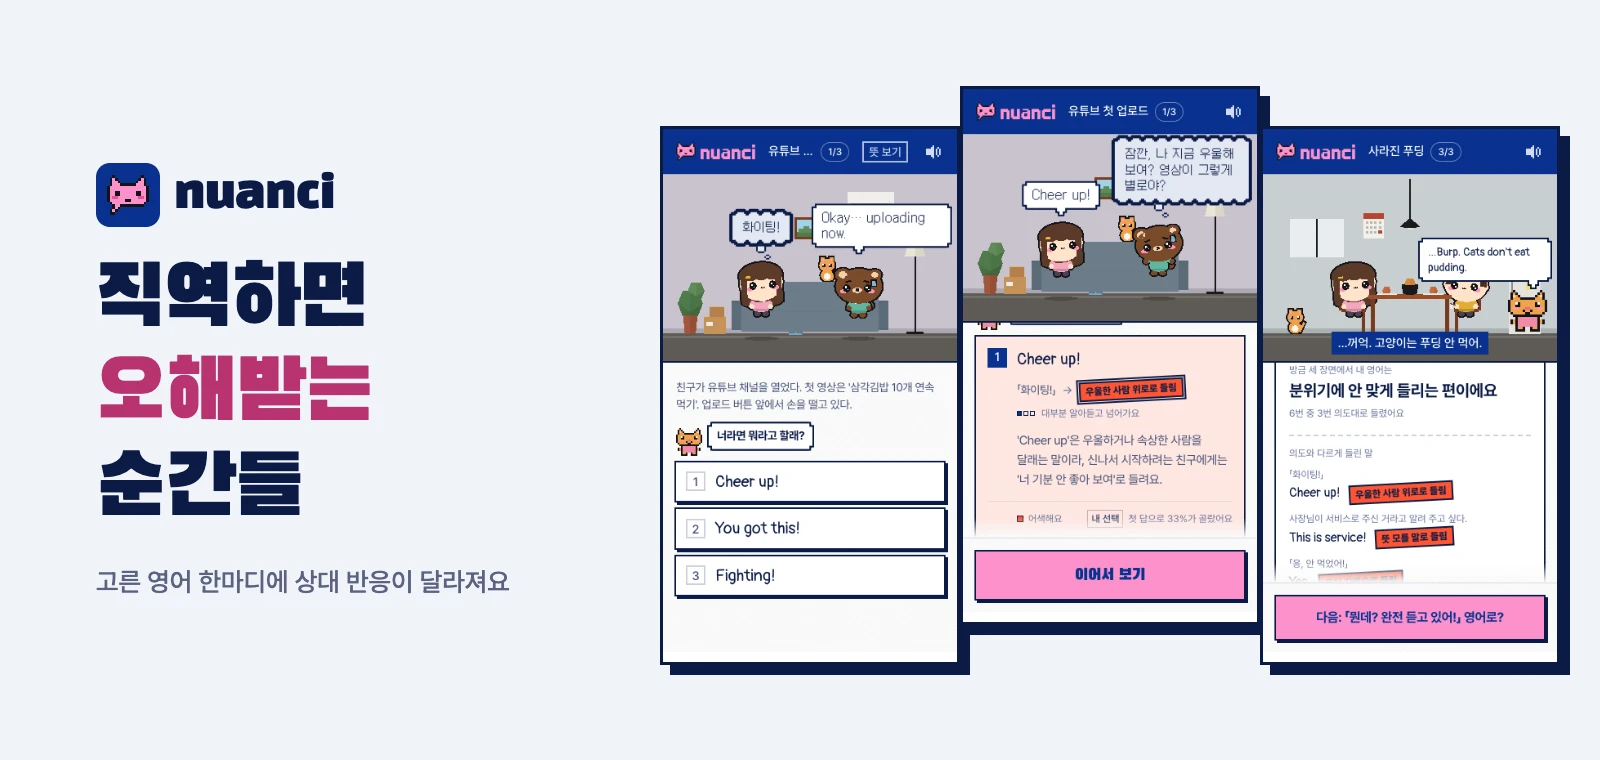
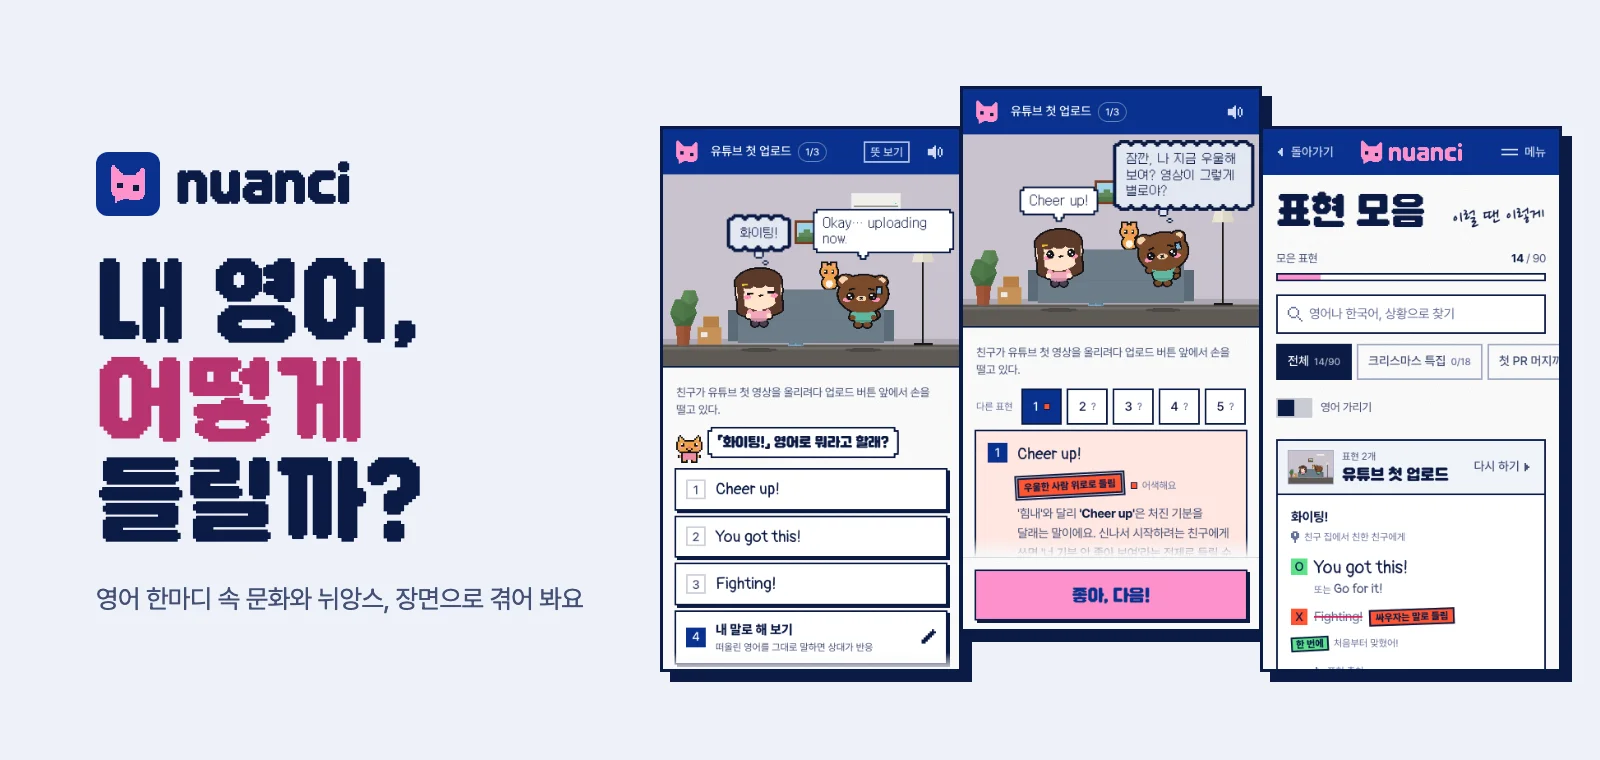
feat: 첫 문장을 '내 영어, 어떻게 들릴까?'로(홈 제목·공유 카드·README 배너). README는 영어 회화 속 문화·뉘앙스가 은은하게 보이게 다듬는다

diff --git a/frontend/src/features/share/card.tsx b/frontend/src/features/share/card.tsx
@@ -135,7 +135,7 @@ export async function render(children: ReactNode, size: { width: number; height:
   );
 }
 
-// 메인 주소를 공유했을 때 보이는 카드. 직역 한 줄이 오해로 이어지는 걸 한 장면으로 보여준다
+// 메인 주소를 공유했을 때 보이는 카드. 내 영어가 상대에게 어떻게 들리는지 보여 주는 곳이라는 걸 한 줄로
 // 카드 그리는 엔진(satori)은 flex: 1 칸의 너비를 글자 줄바꿈에 반영하지 못해서, 칸마다 너비를 정해 둔다
 export function homeCard() {
   return render(
@@ -143,10 +143,10 @@ export function homeCard() {
       <div style={{ display: "flex", flexDirection: "column", justifyContent: "space-between", width: 570 }}>
         <Lockup />
         <div style={{ display: "flex", flexDirection: "column", fontSize: 72, lineHeight: 1.25 }}>
-          <div style={{ display: "flex" }}>직역하면</div>
+          <div style={{ display: "flex" }}>내 영어,</div>
           <div style={{ display: "flex" }}>
-            <Marker>오해받는</Marker>
-            <div style={{ display: "flex", marginLeft: 24 }}>순간들</div>
+            <Marker>어떻게</Marker>
+            <div style={{ display: "flex", marginLeft: 24 }}>들릴까?</div>
           </div>
           <div style={{ display: "flex", marginTop: 20, fontSize: 28, lineHeight: 1.4, color: SUBTLE }}>영어 보기를 고르면 상대 속마음이 보여요</div>
         </div>

diff --git a/frontend/src/app/page.tsx b/frontend/src/app/page.tsx
@@ -65,8 +65,8 @@ export default async function Home() {
       <main className="flex flex-col">
       <div className="relative mx-auto w-full max-w-[1440px] px-4 pb-6 pt-3 md:px-8 min-[960px]:pb-6 returning:max-w-[1080px] returning:pb-0 returning:pt-6 lg:returning:max-w-[1200px]">
         <h1 className="poster-home font-poster text-fg returning:text-say returning:leading-none md:returning:text-display-sm">
-          <span className="poster-rise block min-[960px]:inline-block returning:inline">직역하면</span>{" "}
-          <span className="poster-rise block [animation-delay:90ms] min-[960px]:inline-block returning:inline">오해받는 순간들</span>
+          <span className="poster-rise block min-[960px]:inline-block returning:inline">내 영어,</span>{" "}
+          <span className="poster-rise block [animation-delay:90ms] min-[960px]:inline-block returning:inline">어떻게 들릴까?</span>
         </h1>
         <p aria-hidden className="poster-scrawl absolute right-4 top-3 font-scrawl text-[clamp(32px,6vw,60px)] leading-none text-fg [--lean:-4deg] md:right-8 min-[960px]:hidden returning:hidden">
           골라 보면 알아요

diff --git a/frontend/src/app/opengraph-image.tsx b/frontend/src/app/opengraph-image.tsx
@@ -2,7 +2,7 @@ import { CARD_SIZE, homeCard } from "@/features/share/card";
 
 export const size = CARD_SIZE;
 export const contentType = "image/png";
-export const alt = "nuanci · 직역하면 오해받는 순간들";
+export const alt = "nuanci · 내 영어, 어떻게 들릴까?";
 
 export default function Image() {
   return homeCard();

diff --git a/README.md b/README.md
@@ -1,6 +1,6 @@
 <div align="center">
 
-<img src=".github/readme/banner.webp" alt="nuanci 로고와 '직역하면 오해받는 순간들' 문구, 장면 질문·상대 반응·내 영어 말투 결과 화면" width="100%">
+<img src=".github/readme/banner.webp" alt="nuanci 로고와 '내 영어, 어떻게 들릴까?' 문구, 장면 질문·상대 반응·표현 모음 화면" width="100%">
 
 외국어를 배운다는 건, 다른 방식으로 생각해 보는 일이에요.<br>
 짧은 장면에서 영어 한마디를 고르면, 그 말이 상대에게 어떻게 들렸는지 바로 보여요.
@@ -33,8 +33,8 @@
 <br>
 
 <div align="center">
-  <h3>다음 장면 하나, 그리고 모음</h3>
-  <p>홈에는 이어서 할 장면 하나만 크게 보여요.<br>친구랑·회사에서 같은 상황별 모음과 크리스마스 같은 특집도 골라 볼 수 있어요.</p>
+  <h3>누구에게, 어디서 하느냐에 따라</h3>
+  <p>같은 마음도 친구에게, 팀장님에게, 카페 직원에게 건네는 말은 달라요.<br>홈에는 이어서 할 장면 하나가 있고, 모음에서 상황별로 골라 볼 수 있어요.</p>
   <img src=".github/readme/home.webp" alt="홈: 이어서 할 장면 '이별 다음 날 노래방'과 크리스마스 특집 배너" width="28%">
   <img src=".github/readme/scenes.webp" alt="전체 장면: 다음 장면 카드, 상황별 탭, 크리스마스 특집 모음" width="28%">
 </div>
